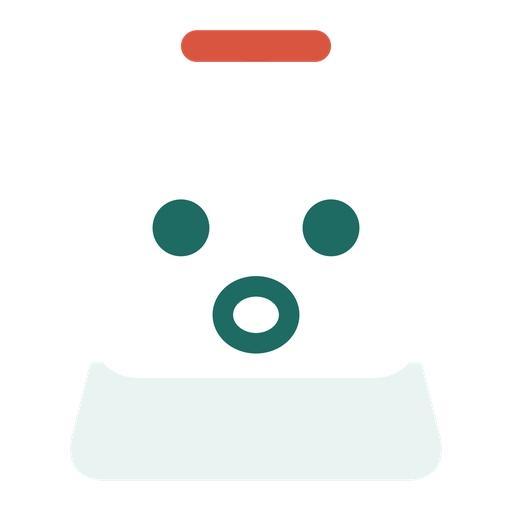
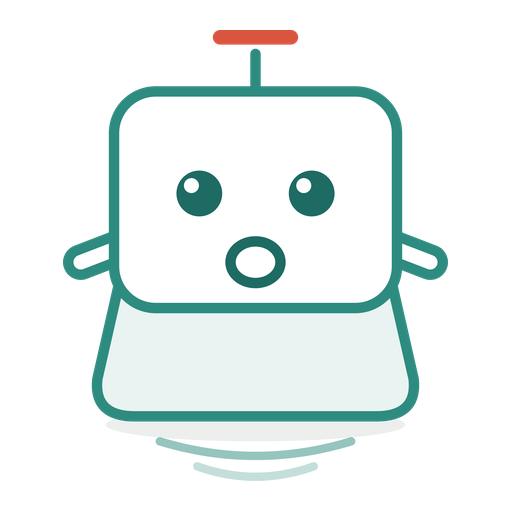
fix(android): 1.7.0 补三处 —— 候选数字复原、空闲区统一底色、图标改用项目宠物线稿
用户对 1.7.0 试用的三处反馈（均在发版前收口，故并入 v1.7.0 而不是另起版本）：

一、「候选词前的数字还要的 —— 多出来的是**输入拼音时最前面那串数字**」
   澄清了上一轮的误读：上一轮整串去掉了可见序号，此轮**复原**（页内 1–8 + 读屏
   「第 N 项」原样回来）；真正要去的，是 **9 键（T9）方案下缓冲区里的键位数字串**
   （「6426」这种摆在候选栏最前面，被读成"多出来的数字"）。改法：缓冲显示按方案
   分流 —— NINE 不显示（候选本身就是反馈），26/14/笔画照常显示字母；承载读屏播报
   的语义节点**保留**（隐藏时留空文本节点，否则 9 键下丢播报）。

二、「没有输入的时候功能栏和键盘之间有空隙，要加上背景，整体统一」
   ImeScreen 根列此前透明：空闲时候选槽是一道空缝、键与键之间也露窗口底色
   （深色皮肤下尤为扎眼）。根列统一刷 `palette.barBg`（候选栏同色），工具条自带
   底色不受影响 —— 四款皮肤下整块键盘同一底色。

三、「应用的 logo 图标要按项目宠物来 —— 应用中的 logo 图标缩小还很清晰」
   启动图标前景从**扁平简化版**改为**项目宠物的线稿版**（= shared/pet/OpiPet.kt
   的 IDLE 几何、docs/opi-pet.svg 的设计稿）：青描边 + 深青眼睛与 O 环嘴 + 朱砂
   天线 + 手臂 + 涟漪，24–28dp 下仍清晰（应用里那只的实测观感就是参照）。
   - 新 R4 = 108 画布 + 一层分组变换把 240×250 设计空间等比放到正中 72 可见区；
     刻字 OPI 照旧不带（48px 下不足 3px）。配色与 PetPalette.Default 逐值相同；
     设计稿的两条极淡渐变改纯色（VD 渐变要走 aapt:attr，而生成器的 VD→SVG 只认
     平铺色，留渐变会让 API≤25 的位图丢填充）。
   - gen_pet_icons.py 相应扩展：支持 `<group>` 变换与 fillAlpha/strokeAlpha 透传
     （此前只认平铺 path 属性）；未实现的节点现在**报错而非静默丢图形**。
   - 四端图标同源重出（它本来就是"同一套几何"的承诺）。
   - 途中踩到一个 XML 硬规则：注释里不能出现连续两个连字符（`` `--check` `` 直接
     让 ET.parse 报 not well-formed），已改措辞。

验证：android 全测绿；APK 重编并在**包内**核过 —— 四角 alpha=0、青色描边像素
2338 个（线稿确实在）；`gen_pet_icons.py --check` 14 个产物与 R4 一致。

Changed region(s): [[0.125, 0.0312, 0.875, 0.9375], [0.5625, 0.3125, 0.7188, 0.5], [0.2812, 0.3125, 0.4375, 0.5]]

diff --git a/android/app/src/main/kotlin/xyz/erik/opi/candidate/CandidateBar.kt b/android/app/src/main/kotlin/xyz/erik/opi/candidate/CandidateBar.kt
@@ -33,6 +33,7 @@ import androidx.compose.ui.text.font.FontWeight
 import androidx.compose.ui.unit.dp
 import androidx.compose.ui.unit.sp
 import xyz.erik.opi.engine.EngineController
+import xyz.erik.opi.engine.InputScheme
 import xyz.erik.opi.keyboard.LocalKeyboardPalette
 import xyz.erik.opi.engine.EngineMode
 import xyz.erik.opi.pet.OpiPet
@@ -79,8 +80,15 @@ fun CandidateBar(controller: EngineController, onTap: (Int) -> Unit, onLongPress
             .background(p.barBg),
         verticalAlignment = Alignment.CenterVertically,
     ) {
+        // ⚠ 显示串：**9 键（T9）方案下缓冲区是数字串**（键位序列，不是拼音）——
+        // 摆在候选栏最前面会被读成「输入拼音时多出来的一串数字」（2026-10-09 用户
+        // 裁决原话）。候选本身就是反馈，这串不显示；其余方案（26/14/笔画）缓冲是
+        // 字母，照常显示。**节点不能整个删**：读屏播报挂在这个节点上（见下面语义块），
+        // 隐藏时留一个空文本节点（宽度只剩两侧 padding，肉眼看不见）。
+        val bufferShown =
+            if (controller.inputScheme == InputScheme.NINE) "" else controller.buffer
         Text(
-            controller.buffer,
+            bufferShown,
             modifier = Modifier
                 .padding(horizontal = 12.dp)
                 .semantics {
@@ -104,10 +112,13 @@ fun CandidateBar(controller: EngineController, onTap: (Int) -> Unit, onLongPress
             verticalAlignment = Alignment.CenterVertically,
         ) {
             for ((i, c) in candidates.withIndex()) {
-                // 可见序号**已去掉**（2026-10-09 用户裁决「候选词最前面会显示一串数字」）：
-                // 手机端字母盘没有数字行 ⇒ 数字选词根本按不到，那串「1. 2. 3.…」是纯噪声。
-                // ⚠ 播报仍带「第 N 项」（读屏用户需要位置感）—— 那是**页内**下标（翻页后从 1
-                // 重数），与曾经的可见序号同一个值，不允许写成全列表下标。
+                // 可见序号 = **页内**下标 + 1（翻页后从 1 重数）。两条理由：
+                //   · 与数字选词的语义同源 —— 引擎里数字键选的是**页内索引**
+                //     （`composer.rs` 的数字键约定），写成全列表下标就与「按 3 选本页第 3 个」对不上；
+                //   · 与 Windows 候选窗同款（`CandidateWindow.kt` 的 `"$index."`，同样是页内）。
+                // ⚠ 播报用的 `n` 与可见序号是**同一个值**（`"$n."`）—— 不许一处页内、一处全列表。
+                // （2026-10-09：曾整串去掉过一版 —— 用户澄清「候选词前的数字还要的，
+                //  多出来的是 9 键那串键位数字」，故恢复。）
                 val n = i + 1
                 Row(
                     // clickable 必须在 padding 之前：反过来的话热区只覆盖文字本身
@@ -140,6 +151,7 @@ fun CandidateBar(controller: EngineController, onTap: (Int) -> Unit, onLongPress
                         .padding(horizontal = 12.dp, vertical = 8.dp),
                     verticalAlignment = Alignment.CenterVertically,
                 ) {
+                    Text("$n.", fontSize = 13.sp, color = p.barBufferFg, modifier = Modifier.padding(end = 3.dp))
                     Text(c, fontSize = 20.sp, color = p.keyFg)
                 }
             }

diff --git a/android/app/src/main/kotlin/xyz/erik/opi/ime/ImeScreen.kt b/android/app/src/main/kotlin/xyz/erik/opi/ime/ImeScreen.kt
@@ -3,6 +3,7 @@
 
 package xyz.erik.opi.ime
 
+import androidx.compose.foundation.background
 import androidx.compose.foundation.layout.Box
 import androidx.compose.foundation.layout.Column
 import androidx.compose.foundation.layout.Row
@@ -77,7 +78,11 @@ fun ImeScreen(
         LocalKeyboardPalette provides palette,
         LocalDensity provides density,
     ) {
-        Column(modifier = Modifier.fillMaxSize()) {
+        // 整块键盘**统一底色**（2026-10-09 用户裁决「没有输入的时候功能栏和键盘之间
+        // 有空隙，要加上背景，整体统一」）：此前根列透明，空闲时候选槽是一道空缝、
+        // 键与键之间也露窗口底色（换深色皮肤时尤为扎眼）。刷成 barBg = 候选栏同色，
+        // 工具条自带底色不受影响。
+        Column(modifier = Modifier.fillMaxSize().background(palette.barBg)) {
             // ---- 工具条：图标入口（表情 / 输入模式 / 键盘模式）----
             ImeToolbar(
                 currentMode = state.inputMode,

diff --git a/scripts/gen_pet_icons.py b/scripts/gen_pet_icons.py
@@ -134,28 +134,54 @@ def foreground_svg(size: int, mask_radius: float | None = None, crop: bool = Tru
     if plate:
         # 自适应图标那层纯色 background：旧版位图里得自己铺满（PNG 没有 background 层）
         out.append(f'  <rect x="0" y="0" width="{vw}" height="{vh}" fill="{background_color()}"/>\n')
-    for p in root:
-        if not p.tag.endswith("path"):
-            continue
-        a = p.attrib
-        attrs = [
-            f'{dst}="{a[AND + src]}"'
-            for src, dst in (
-                ("fillColor", "fill"),
-                ("strokeColor", "stroke"),
-                ("strokeWidth", "stroke-width"),
-                ("strokeLineCap", "stroke-linecap"),
-                ("strokeLineJoin", "stroke-linejoin"),
-            )
-            if AND + src in a
-        ]
-        # ⚠ 缺省值两边**不一样**：Android 的 fillColor 缺省 = 透明，SVG 的 fill 缺省 = 黑。
-        # R4 的嘴只有 strokeColor（圆环 = 字母 O），不显式 fill="none" 就渲成一块实心黑饼。
-        # 这脚 2026-09-28 踩过一次，且**外框 bbox 检查抓不到**（黑填充不改外框），只能靠看图。
-        if AND + "fillColor" not in a:
-            attrs.append('fill="none"')
-        attrs.append(f'd="{a[AND + "pathData"]}"')
-        out.append("  <path " + " ".join(attrs) + "/>\n")
+
+    def emit(node, depth: int) -> None:
+        pad = "  " * depth
+        tag = node.tag
+        a = node.attrib
+        if tag.endswith("path"):
+            attrs = [
+                f'{dst}="{a[AND + src]}"'
+                for src, dst in (
+                    ("fillColor", "fill"),
+                    ("strokeColor", "stroke"),
+                    ("strokeWidth", "stroke-width"),
+                    ("strokeLineCap", "stroke-linecap"),
+                    ("strokeLineJoin", "stroke-linejoin"),
+                    ("fillAlpha", "fill-opacity"),
+                    ("strokeAlpha", "stroke-opacity"),
+                )
+                if AND + src in a
+            ]
+            # ⚠ 缺省值两边**不一样**：Android 的 fillColor 缺省 = 透明，SVG 的 fill 缺省 = 黑。
+            # R4 的嘴只有 strokeColor（圆环 = 字母 O），不显式 fill="none" 就渲成一块实心黑饼。
+            # 这脚 2026-09-28 踩过一次，且**外框 bbox 检查抓不到**（黑填充不改外框），只能靠看图。
+            if AND + "fillColor" not in a:
+                attrs.append('fill="none"')
+            attrs.append(f'd="{a[AND + "pathData"]}"')
+            out.append(f"{pad}<path " + " ".join(attrs) + "/>\n")
+            return
+        if tag.endswith("group"):
+            # 2026-10-09：R4 改版后前景有一层分组变换（设计空间 → 108 画布的居中缩放）。
+            # VectorDrawable 的组变换 = translate ∘ rotate ∘ scale（pivot 0 时即 T + S·p），
+            # 按同样的式子转成 SVG 的 transform（translate 在前、scale 在后 = 先缩后移）。
+            sx = float(a.get(AND + "scaleX", 1.0))
+            sy = float(a.get(AND + "scaleY", 1.0))
+            tx = float(a.get(AND + "translateX", 0.0))
+            ty = float(a.get(AND + "translateY", 0.0))
+            if "rotation" in a or "pivotX" in a or "pivotY" in a:
+                raise SystemExit("R4 出现了旋转/轴心的组变换 —— 转换只实现了 translate+scale")
+            out.append(f'{pad}<g transform="translate({tx} {ty}) scale({sx} {sy})">\n')
+            for child in node:
+                emit(child, depth + 1)
+            out.append(f"{pad}</g>\n")
+            return
+        # 其余节点（clip-path 等）本文件不用；出现即报错，别静默丢图形。
+        if tag is not ET.Comment and tag.endswith(("path", "group")) is False:
+            raise SystemExit(f"R4 里有没实现的节点：{tag}")
+
+    for child in root:
+        emit(child, 1)
     if mask_radius is not None:
         out.append("  </g>\n")
     return "".join(out) + "</svg>\n"
